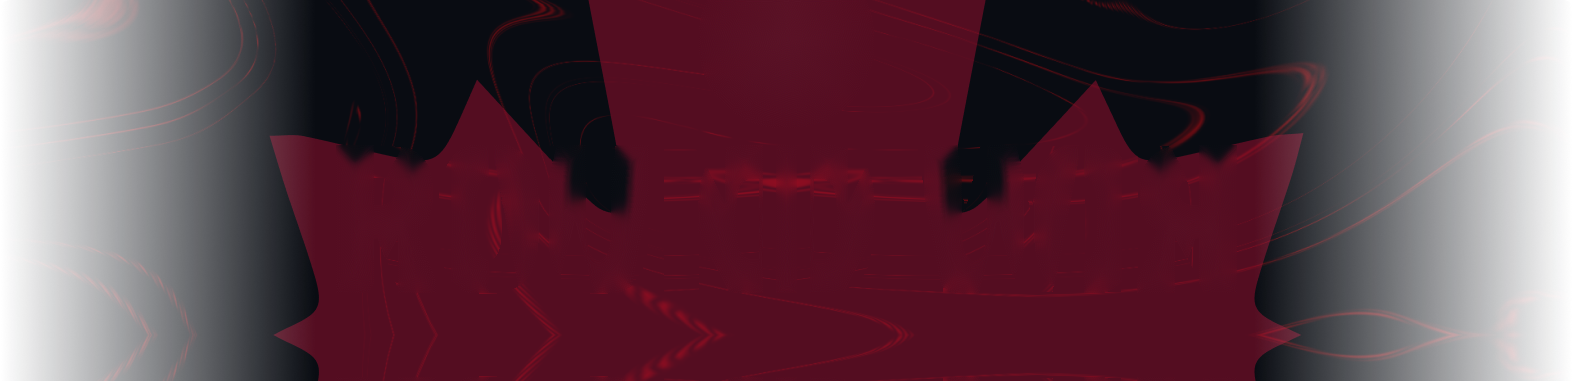
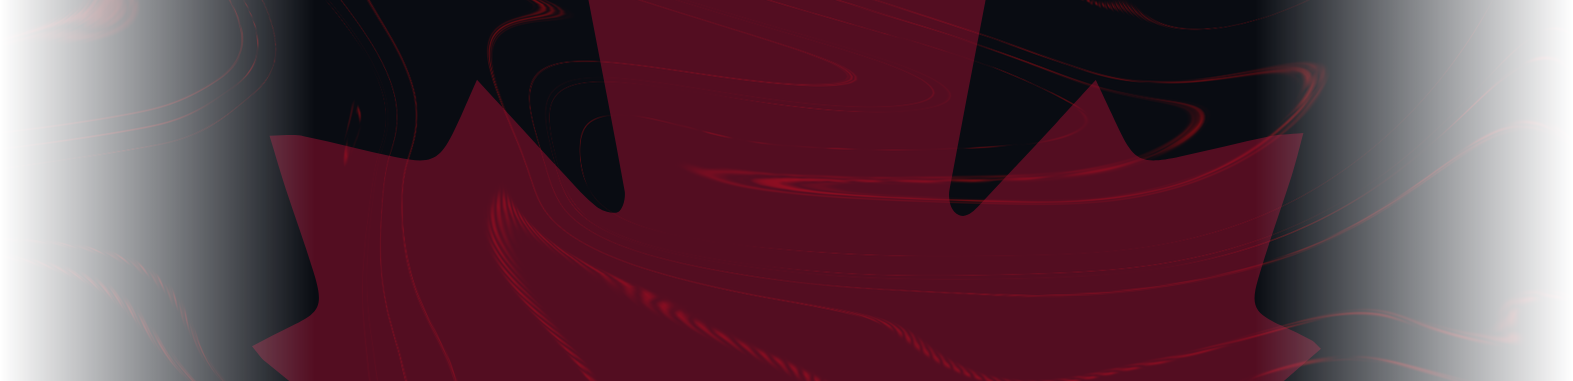
VAL HUD: CEN round win bug background and crest from owen's .fig
The background is now the fig's own layers (no painted-out text), the crest
is the fig's full-size picture, and the bar sits at x 102 as in the fig.

Claude-Session: https://claude.ai/code/session_01JNYPPTsteoTkEvbAGwX5Ex

diff --git a/apps/valhud/web/scc2027/scc2027.css b/apps/valhud/web/scc2027/scc2027.css
@@ -365,10 +365,11 @@ html.scc-2v2 .scc-duo.on .scc-duo-cam { box-shadow: inset 0 0 0 2px var(--gold);
 :is(#rwin, #rwbug, #tobug).out.wipe .flash { z-index: 9; animation: rwWipeOut .75s cubic-bezier(.6, 0, .3, 1) forwards; }
 :is(#rwin, #rwbug, #tobug).out.wipe :is(.bg, .crest, .word, .bar, .who) { opacity: 0; transition: opacity .1s linear .3s; }
 @keyframes rwWipeOut { 0% { transform: scaleX(0); opacity: 1; } 45% { transform: scaleX(1); opacity: 1; } 100% { transform: scaleX(0); opacity: 1; } }
-/* "CEN Round Win" (owen 2026-11-25): St. Clair Saints crest, red maple leaf,
+/* "CEN Round Win" (owen 2026-11-25, from his CEN Round WIn.fig): St. Clair Saints crest, red maple leaf,
    red bar with white text; the winner's logo in the crest as SCC's does. */
 #rwbug.cen .bg { background-image: url("assets/roundwin-cen-bg.png"); }
 #rwbug.cen .crest { background-image: url("assets/roundwin-cen-logo.png"); }
+#rwbug.cen .bar, #rwbug.cen .who { left: 102px; }   /* (the fig's bar sits at 102, SCC's at 116) */
 #rwbug.cen .bar { background: linear-gradient(90deg, rgba(252, 0, 59, 0), #FC003B 20%, #FC003B 80%, rgba(252, 0, 59, 0)); }
 #rwbug.cen .who { color: #fff; }
 #rwbug.cen .who span + span::before { background: #fff; }
